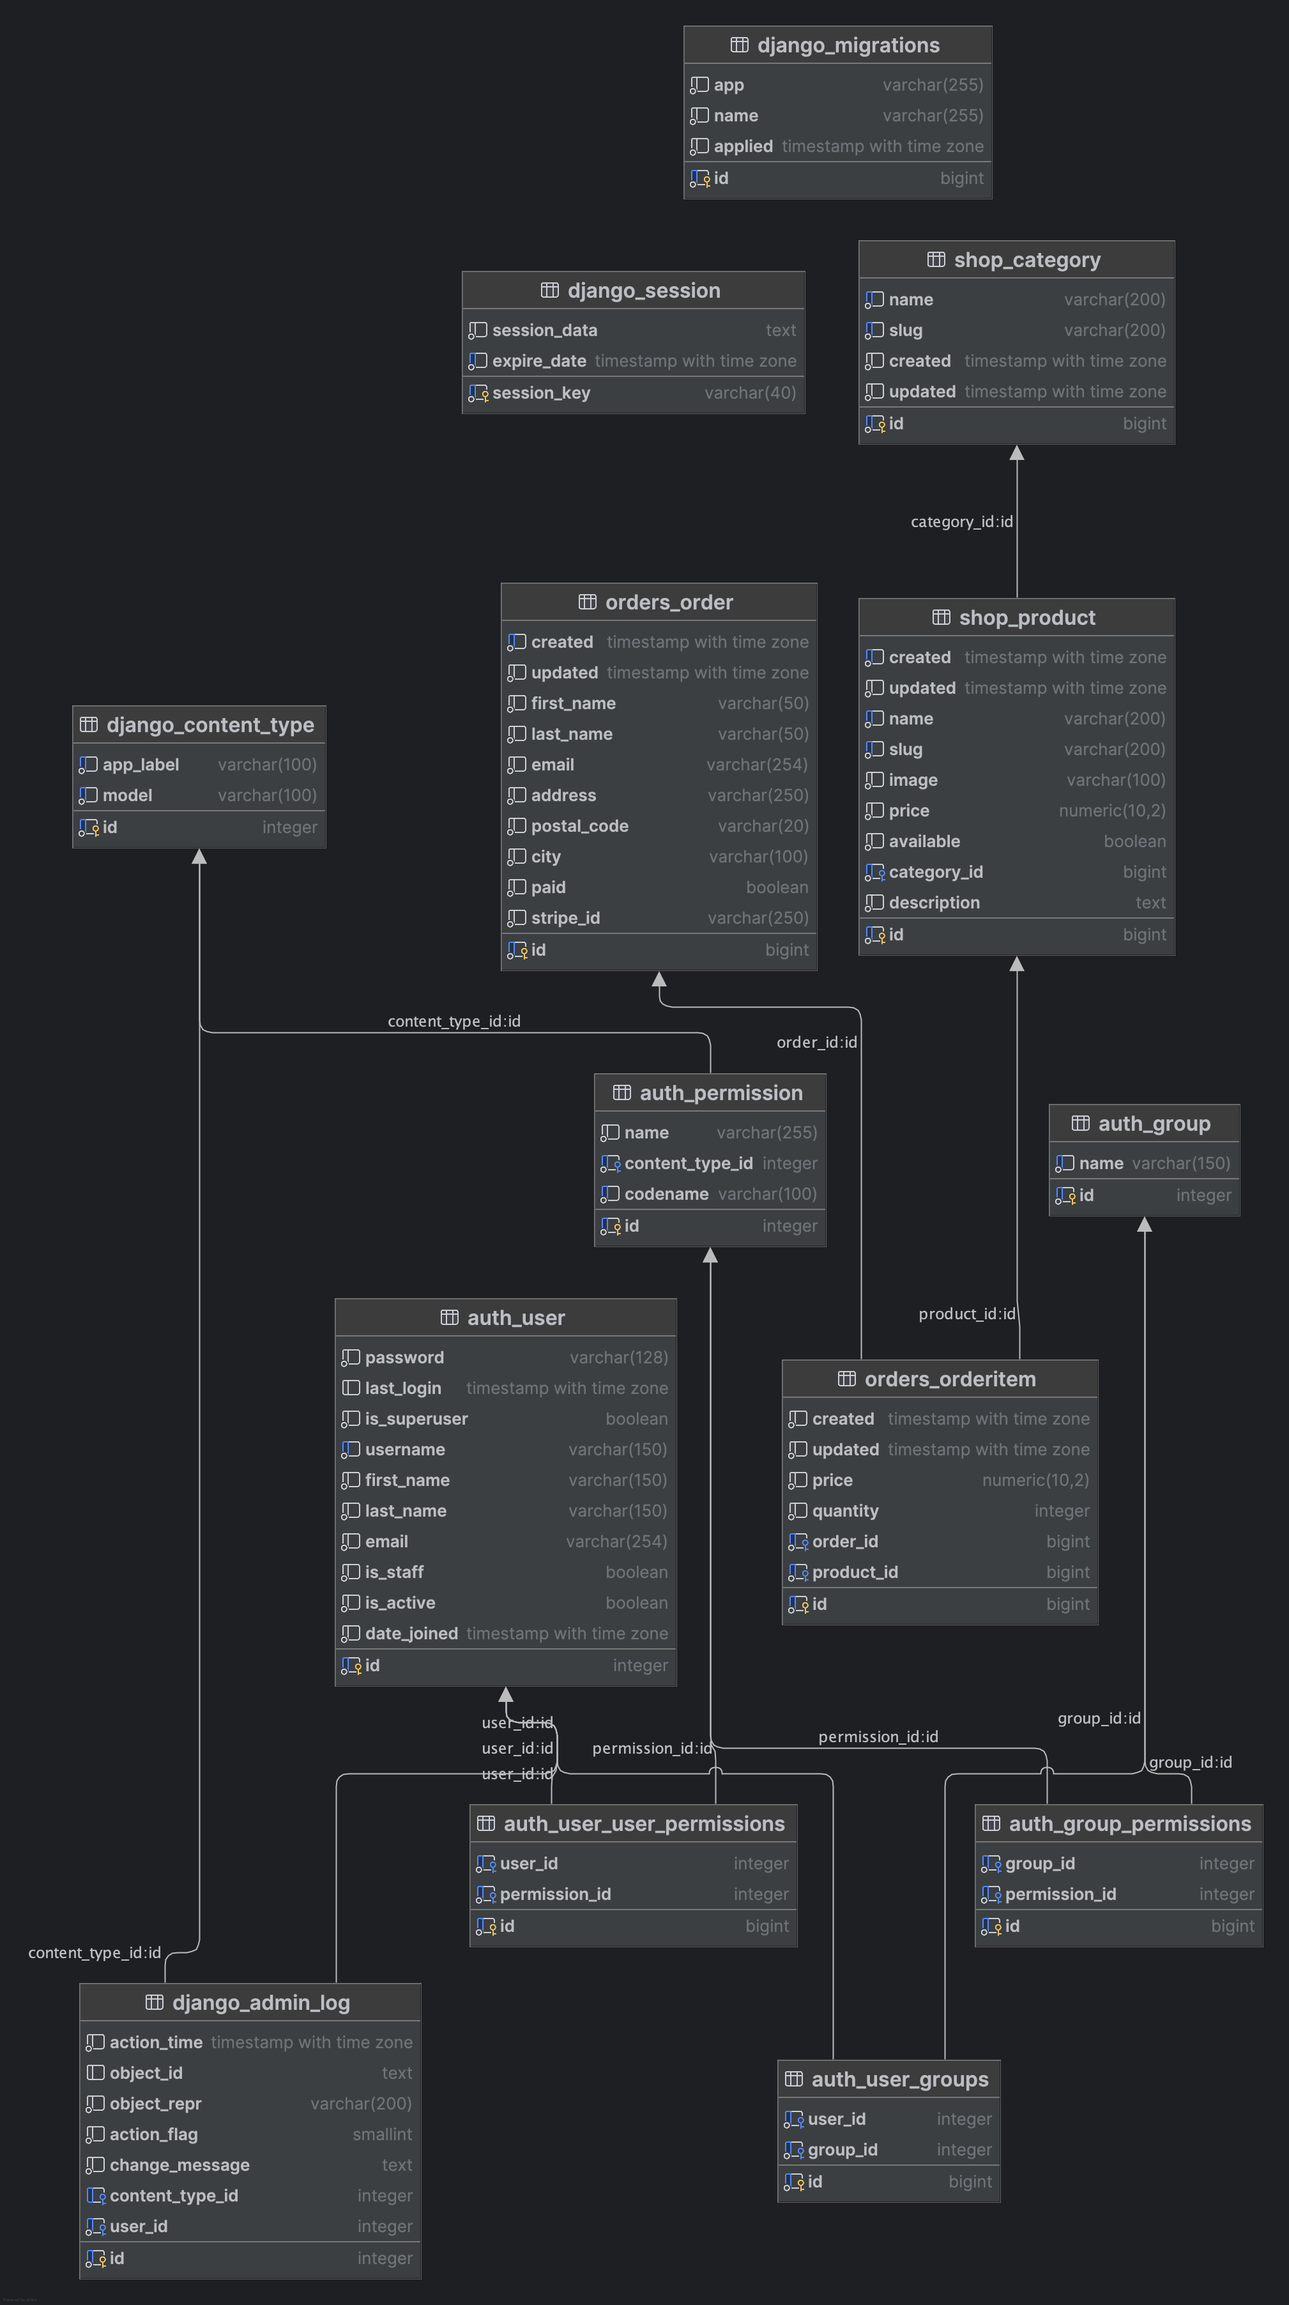
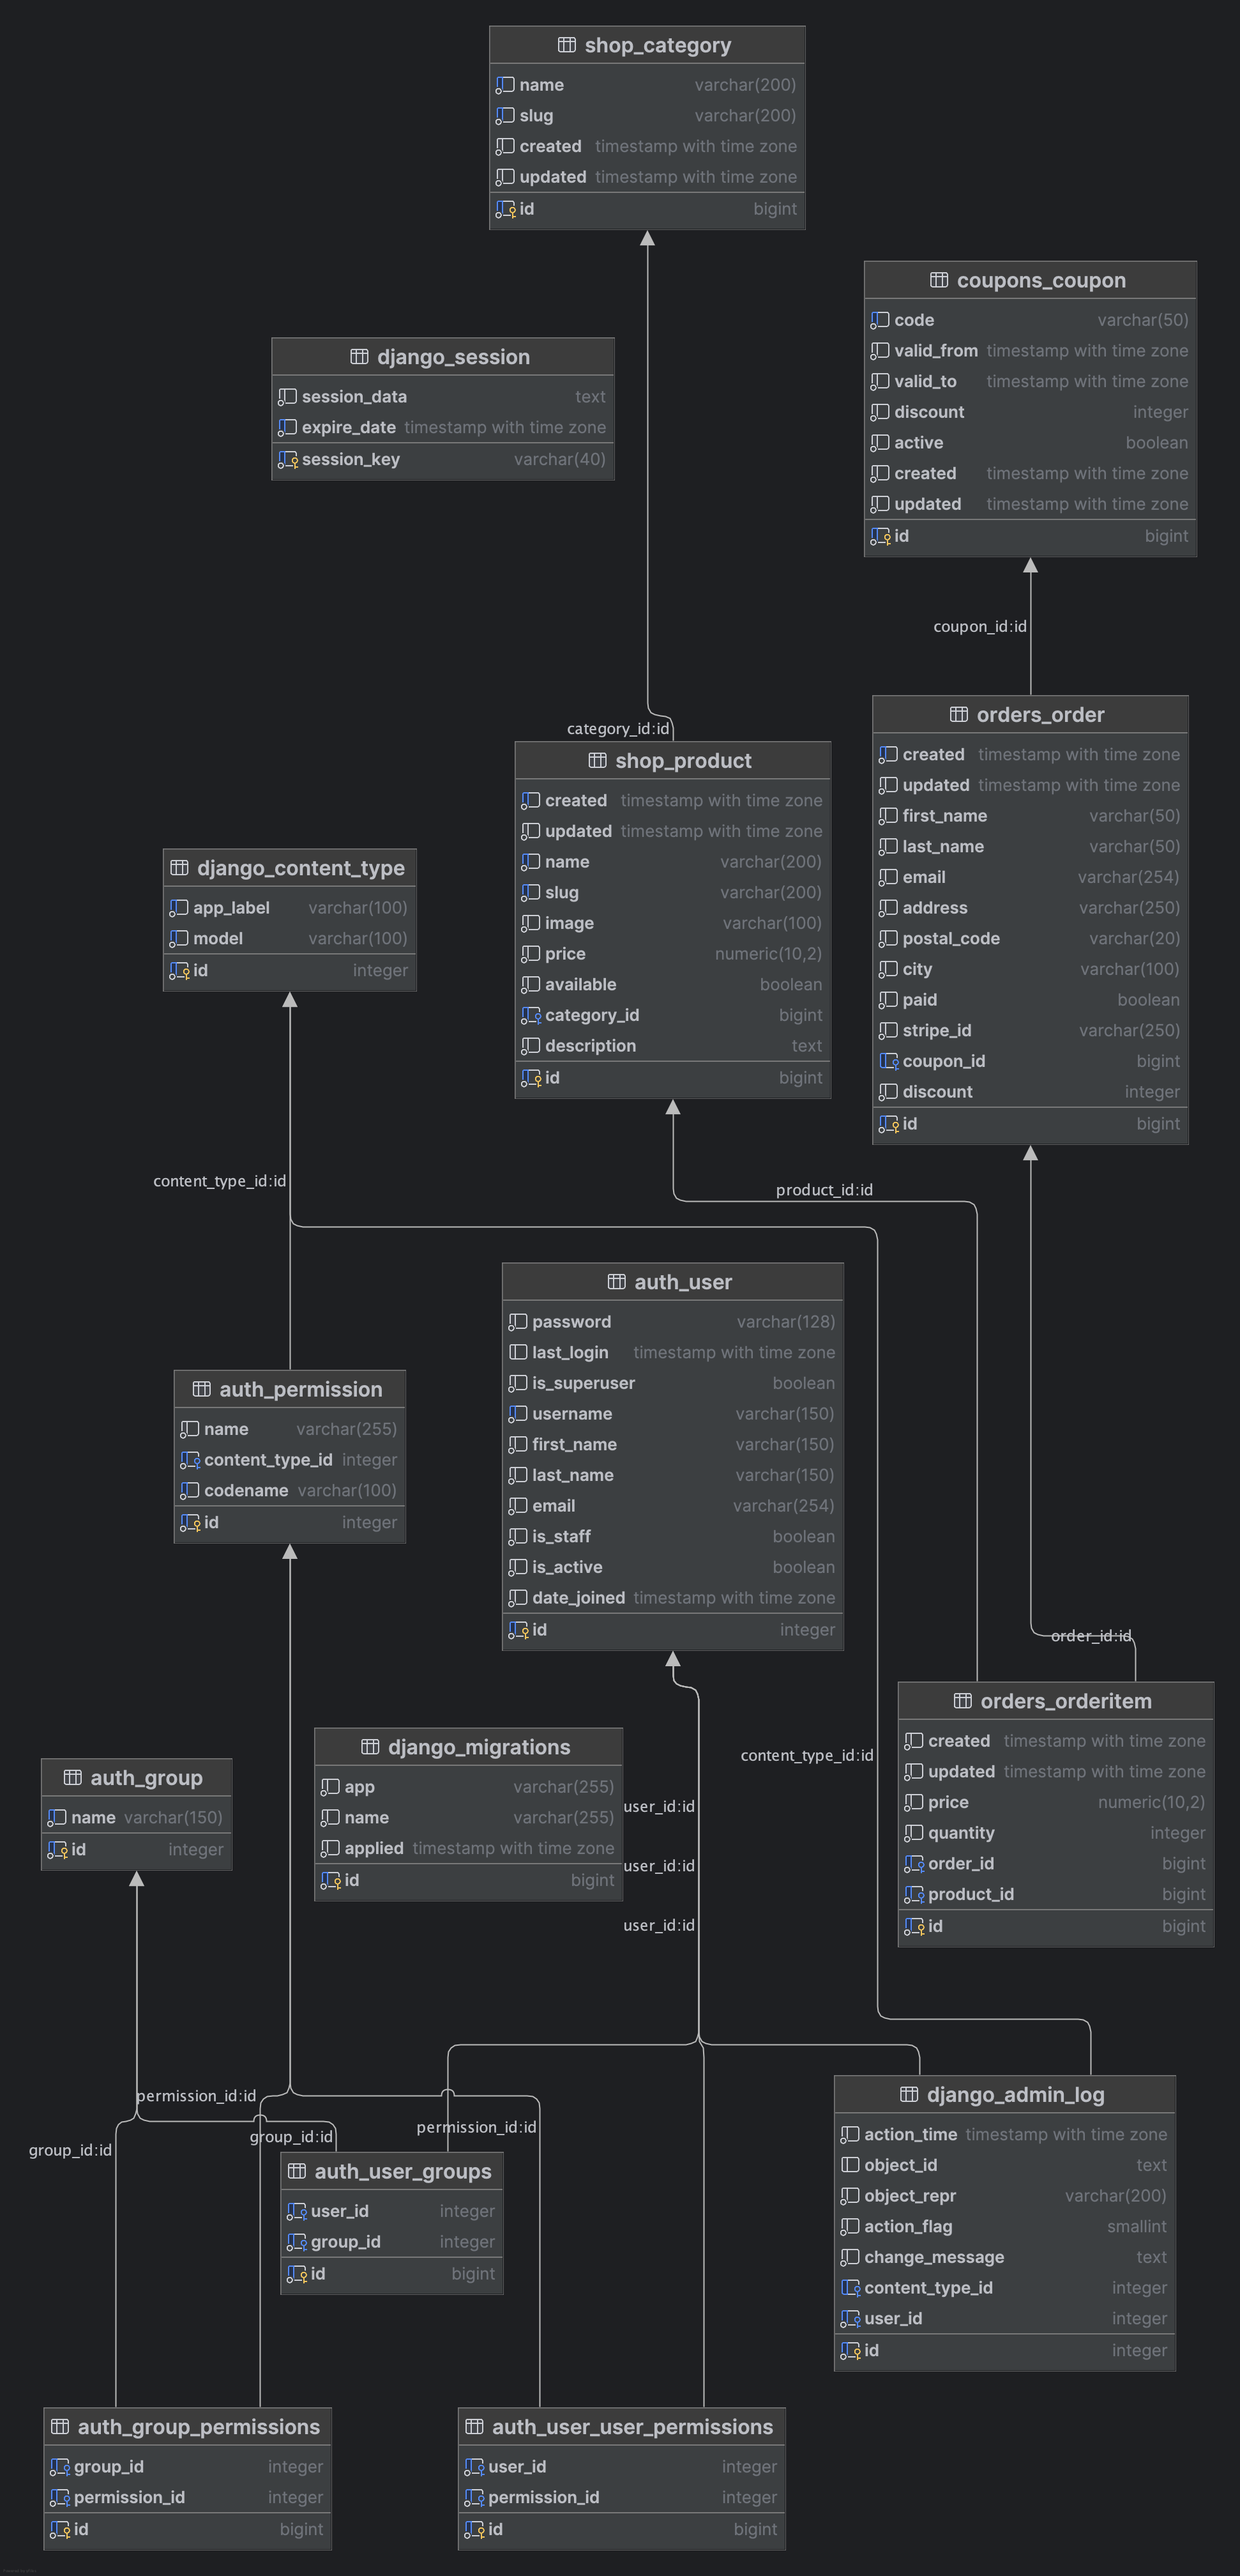
refactoring code

diff --git a/myshop/orders/templates/orders/order/create.html b/myshop/orders/templates/orders/order/create.html
@@ -13,8 +13,14 @@
           <span>${{ item.total_price }}</span>
         </li>
       {% endfor %}
+      {% if cart.coupon %}
+        <li>
+          "{{ cart.coupon.code }}" ({{ cart.coupon.discount }}% off)
+          <span class="neg">-${{ cart.get_discount|floatformat:2 }}</span>
+        </li>
+      {% endif %}
     </ul>
-    <p>Total: ${{ cart.get_total_price }}</p>
+    <p>Total: ${{ cart.get_total_price_after_discount|floatformat:2 }}</p>
   </div>
   <form method="post" class="order-form">
     {{ form.as_p }}

diff --git a/myshop/orders/models.py b/myshop/orders/models.py
@@ -1,7 +1,11 @@
+from decimal import Decimal
+
 from django.conf import settings
+from django.core.validators import MaxValueValidator, MinValueValidator
 from django.db import models
 
 import core.models
+from coupons.models import Coupon
 from shop.models import Product
 
 
@@ -14,6 +18,17 @@ class Order(core.models.AbstractBaseModel):
     city = models.CharField(max_length=100)
     paid = models.BooleanField(default=False)
     stripe_id = models.CharField(max_length=250, blank=True)
+    coupon = models.ForeignKey(
+        Coupon,
+        related_name="orders",
+        null=True,
+        blank=True,
+        on_delete=models.SET_NULL,
+    )
+    discount = models.IntegerField(
+        default=0,
+        validators=[MinValueValidator(0), MaxValueValidator(100)],
+    )
 
     class Meta:
         ordering = ["-created"]
@@ -37,10 +52,11 @@ class Order(core.models.AbstractBaseModel):
             f"{self.stripe_id!r})"
         )
 
-    def get_total_sum(self) -> int:
-        return sum(item.get_cost() for item in self.items.all())
+    def get_total_sum(self) -> Decimal:
+        total_cost = self.get_total_cost_before_discount()
+        return total_cost - self.get_discount()
 
-    def get_stripe_url(self):
+    def get_stripe_url(self) -> str:
         if not self.stripe_id:
             return ""
         if "__test__" in settings.STRIPE_SECRET_KEY:
@@ -48,6 +64,15 @@ class Order(core.models.AbstractBaseModel):
         else:
             path = "/"
         return f"https://dashboard.stripe.com{path}payment/{self.stripe_id}"
+
+    def get_total_cost_before_discount(self) -> int:
+        return sum(item.get_cost() for item in self.items.all())
+
+    def get_discount(self) -> Decimal:
+        total_cost = self.get_total_cost_before_discount()
+        if self.discount:
+            return total_cost * (self.discount / Decimal(100))
+        return Decimal(0)
 
 
 class OrderItem(core.models.AbstractBaseModel):

diff --git a/myshop/orders/migrations/0003_order_coupon_order_discount.py b/myshop/orders/migrations/0003_order_coupon_order_discount.py
@@ -1,0 +1,38 @@
+# Generated by Django 5.1.3 on 2025-01-06 06:58
+
+import django.core.validators
+import django.db.models.deletion
+from django.db import migrations, models
+
+
+class Migration(migrations.Migration):
+
+    dependencies = [
+        ("coupons", "0001_initial"),
+        ("orders", "0002_order_stripe_id"),
+    ]
+
+    operations = [
+        migrations.AddField(
+            model_name="order",
+            name="coupon",
+            field=models.ForeignKey(
+                blank=True,
+                null=True,
+                on_delete=django.db.models.deletion.SET_NULL,
+                related_name="orders",
+                to="coupons.coupon",
+            ),
+        ),
+        migrations.AddField(
+            model_name="order",
+            name="discount",
+            field=models.IntegerField(
+                default=0,
+                validators=[
+                    django.core.validators.MinValueValidator(0),
+                    django.core.validators.MaxValueValidator(100),
+                ],
+            ),
+        ),
+    ]

diff --git a/myshop/cart/views.py b/myshop/cart/views.py
@@ -1,3 +1,4 @@
+from django.http import HttpRequest, HttpResponse
 import django.shortcuts
 from django.views.decorators.http import require_POST
 
@@ -8,7 +9,7 @@ import shop.models
 
 
 @require_POST
-def cart_add(request, product_id):
+def cart_add(request: HttpRequest, product_id: int) -> HttpResponse:
     cart_ = Cart(request)
     product = django.shortcuts.get_object_or_404(
         shop.models.Product,
@@ -27,7 +28,7 @@ def cart_add(request, product_id):
 
 
 @require_POST
-def cart_remove(request, product_id):
+def cart_remove(request: HttpRequest, product_id: int) -> HttpResponse:
     cart_ = Cart(request)
     product = django.shortcuts.get_object_or_404(
         shop.models.Product,
@@ -38,7 +39,7 @@ def cart_remove(request, product_id):
     return django.shortcuts.redirect("cart:cart_detail")
 
 
-def cart_detail(request):
+def cart_detail(request: HttpRequest) -> HttpResponse:
     cart_ = Cart(request)
     for item in cart_:
         item["update_quantity_form"] = cart.forms.CartAddProductForm(

diff --git a/myshop/shop/views.py b/myshop/shop/views.py
@@ -1,10 +1,16 @@
+from typing import Any
+
+from django.http import HttpRequest, HttpResponse
 import django.shortcuts
 
 import cart.forms
 import shop.models
 
 
-def product_list(request, category_slug=None):
+def product_list(
+    request: HttpRequest,
+    category_slug: Any = None,
+) -> HttpResponse:
     category = None
     categories = shop.models.Category.objects.all()
     products = shop.models.Product.objects.filter(available=True)
@@ -23,7 +29,7 @@ def product_list(request, category_slug=None):
     )
 
 
-def product_detail(request, id, slug):
+def product_detail(request: HttpRequest, id: int, slug: Any) -> HttpResponse:
     product = django.shortcuts.get_object_or_404(
         shop.models.Product,
         id=id,

diff --git a/myshop/coupons/migrations/0002_coupon_created_coupon_updated.py b/myshop/coupons/migrations/0002_coupon_created_coupon_updated.py
@@ -1,0 +1,27 @@
+# Generated by Django 5.1.3 on 2025-01-06 07:40
+
+import django.utils.timezone
+from django.db import migrations, models
+
+
+class Migration(migrations.Migration):
+
+    dependencies = [
+        ("coupons", "0001_initial"),
+    ]
+
+    operations = [
+        migrations.AddField(
+            model_name="coupon",
+            name="created",
+            field=models.DateTimeField(
+                auto_now_add=True, default=django.utils.timezone.now
+            ),
+            preserve_default=False,
+        ),
+        migrations.AddField(
+            model_name="coupon",
+            name="updated",
+            field=models.DateTimeField(auto_now=True),
+        ),
+    ]

diff --git a/myshop/coupons/views.py b/myshop/coupons/views.py
@@ -24,6 +24,8 @@ def coupon_apply(request: HttpRequest) -> HttpResponse:
             request.session["coupon_id"] = coupon.id
             messages.success(request, "Coupon successfully activated.")
         except coupons.models.Coupon.DoesNotExist:
-            request.session["coupon_id"] = None
+            request.session["coupon_id"] = (
+                None  # TODO: здесь надо добавить мол если промо уже был - то запоминть его и не заменять на NONE
+            )
             messages.error(request, "Coupon not found.")
     return redirect("cart:cart_detail")

diff --git a/myshop/payment/webhooks.py b/myshop/payment/webhooks.py
@@ -1,5 +1,5 @@
 from django.conf import settings
-from django.http import HttpResponse
+from django.http import HttpRequest, HttpResponse
 from django.views.decorators.csrf import csrf_exempt
 import stripe
 
@@ -7,7 +7,7 @@ from orders.models import Order
 
 
 @csrf_exempt
-def stripe_webhook(request):
+def stripe_webhook(request: HttpRequest) -> HttpResponse:
     payload = request.body
     sig_header = request.META["HTTP_STRIPE_SIGNATURE"]
     event = None

diff --git a/myshop/coupons/models.py b/myshop/coupons/models.py
@@ -1,8 +1,10 @@
 from django.core.validators import MaxValueValidator, MinValueValidator
 from django.db import models
 
+import core.models
 
-class Coupon(models.Model):
+
+class Coupon(core.models.AbstractBaseModel):
     code = models.CharField(max_length=50, unique=True)
     valid_from = models.DateTimeField()
     valid_to = models.DateTimeField()

diff --git a/myshop/orders/tasks.py b/myshop/orders/tasks.py
@@ -5,7 +5,7 @@ import orders.models
 
 
 @shared_task
-def order_created(order_id):
+def order_created(order_id: int) -> int:
     """
     Задание по отправке уведомления по эл. почте
     при успешном создании заказа
